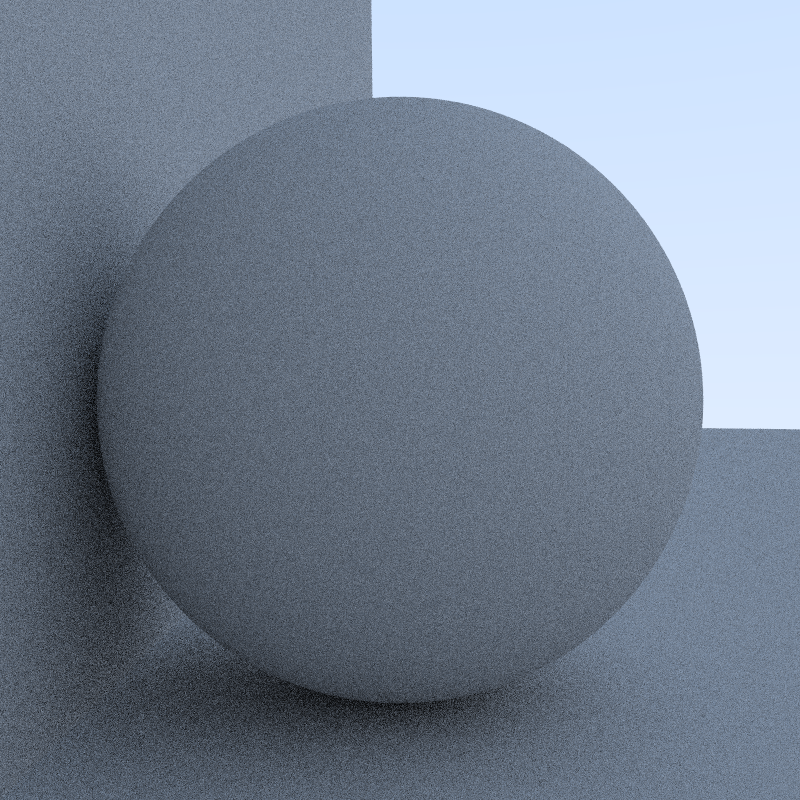
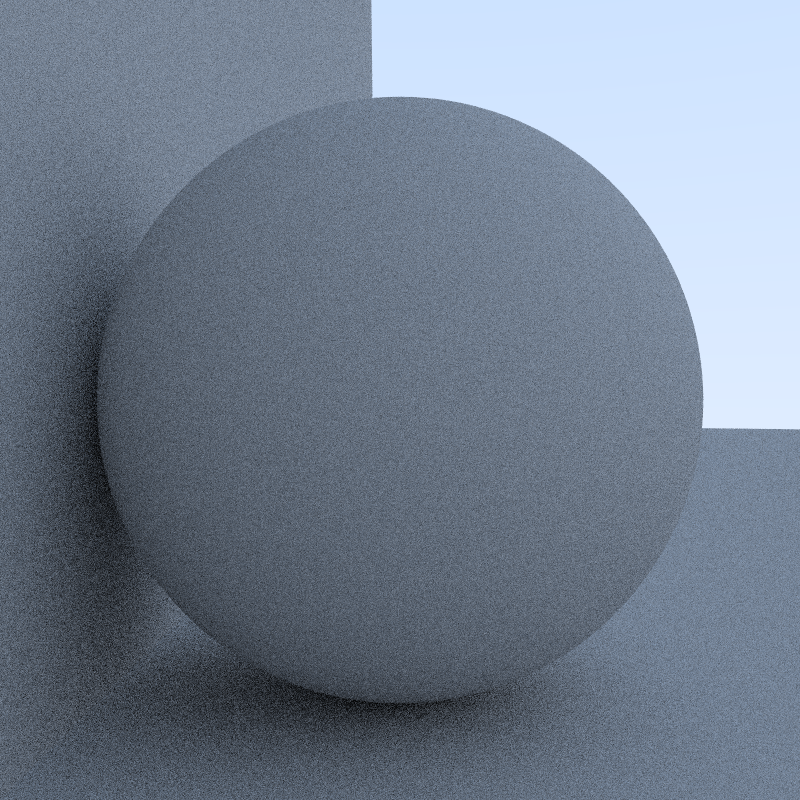
Added Material trait and Lambertian material

diff --git a/src/shapes/sphere.rs b/src/shapes/sphere.rs
@@ -1,19 +1,31 @@
-use crate::{ hittable::{Hit, Hittable}, interval::Interval, ray::Ray, vec3::{Point, Vec3}};
+use std::sync::Arc;
+use crate::{
+    hittable::{Hit, Hittable},
+    interval::Interval,
+    material::Material,
+    ray::Ray,
+    vec3::{Point, Vec3},
+};
 
 #[derive(Debug, Clone)]
 pub struct Sphere {
     center: Point,
     radius: f64,
+    material: Arc<dyn Material>,
 }
 
 impl Sphere {
-    pub fn new(center: Point, radius: f64) -> Self {
-        Self { center, radius }
+    pub fn new(center: Point, radius: f64, material: Arc<dyn Material>) -> Self {
+        Self {
+            center,
+            radius,
+            material,
+        }
     }
 
     fn normal(&self, ray: &Ray, distance: f64) -> Vec3 {
-        let intersept: Point = ray.point_at(distance);
-        let normal = (intersept - self.center) / self.radius;
+        let intercept: Point = ray.point_at(distance);
+        let normal = (intercept - self.center) / self.radius;
         if ray.direction().dot(normal) <= 0.0 {
             normal
         } else {
@@ -37,16 +49,20 @@ impl Hittable for Sphere {
         } else {
             let near = (h - d.sqrt()) / a;
             let far = (h + d.sqrt()) / a;
-            
+
             if ray_t.surrounds(near) {
                 Some(Hit {
                     distance: near,
                     normal: self.normal(ray, near),
+                    hit_point: ray.point_at(near),
+                    material: self.material.clone(),
                 })
             } else if ray_t.surrounds(far) {
                 Some(Hit {
                     distance: far,
                     normal: self.normal(ray, far),
+                    hit_point: ray.point_at(far),
+                    material: self.material.clone(),
                 })
             } else {
                 None

diff --git a/src/camera.rs b/src/camera.rs
@@ -8,7 +8,7 @@ use image::RgbImage;
 use rand::random;
 use rayon::iter::ParallelIterator;
 
-const MAX_DEPTH: i32 = 30;
+const MAX_DEPTH: i32 = 10;
 
 #[derive(Debug, Clone)]
 pub struct Camera {
@@ -105,10 +105,15 @@ fn ray_color(ray: &Ray, ray_t: Interval, scene: &Scene, depth: i32) -> Color {
     let hit = scene.hit(ray, ray_t);
 
     if let Some(hit) = hit {
-        let hit_point = ray.point_at(hit.distance);
-        let direction = hit.normal + Vec3::random_unit_vec();
-        let new_ray = Ray::new(hit_point, direction);
-        0.5 * ray_color(&new_ray, ray_t, scene, depth - 1)
+        // let hit_point = ray.point_at(hit.distance);
+        // let direction = hit.normal + Vec3::random_unit_vec();
+        // let new_ray = Ray::new(hit_point, direction);
+        let scatter = hit.material.scatter(ray, &hit);
+        if let Some(scatter) = scatter {
+            scatter.attenuation * ray_color(&scatter.ray, ray_t, scene, depth - 1)
+        } else {
+            Color::new(0.0, 0.0, 0.0)
+        }
     } else {
         let a = (&ray.direction().z() + 1.0) / 2.0;
         a * Color::new(0.5, 0.7, 1.) + (1. - a) * Color::new(1.0, 1.0, 1.0)

diff --git a/src/main.rs b/src/main.rs
@@ -2,19 +2,17 @@ use std::time::Instant;
 
 use anyhow::Result;
 use raytracer::{
-    camera::Camera,
-    interval::Interval,
-    scene::Scene,
-    shapes::sphere::Sphere,
-    vec3::{Point, Vec3},
+    camera::Camera, interval::Interval, lambertian::Lambertian, scene::Scene, shapes::sphere::Sphere, vec3::{Color, Point, Vec3},
 };
 
 fn main() -> Result<()> {
     let mut scene = Scene::default();
 
-    scene.add_shape(Box::new(Sphere::new(Point::new(3.0, 0.0, 0.0), 1.0)));
-    scene.add_shape(Box::new(Sphere::new(Point::new(1.5, 0.0, -2000.0), 1999.0)));
-    scene.add_shape(Box::new(Sphere::new(Point::new(3.0, 2000.0, 0.0), -1999.0)));
+    let lambertian = Lambertian::new_arc(Color::new(0.5, 0.5, 0.5));
+
+    scene.add_shape(Box::new(Sphere::new(Point::new(3.0, 0.0, 0.0), 1.0, lambertian.clone())));
+    scene.add_shape(Box::new(Sphere::new(Point::new(1.5, 0.0, -2000.0), 1999.0, lambertian.clone())));
+    scene.add_shape(Box::new(Sphere::new(Point::new(3.0, 2000.0, 0.0), -1999.0, lambertian.clone())));
 
     let camera = Camera::new(
         1.0,

diff --git a/src/lambertian.rs b/src/lambertian.rs
@@ -1,0 +1,31 @@
+use std::sync::Arc;
+
+use crate::hittable::Hit;
+use crate::material::{Material, Scatter};
+use crate::ray::Ray;
+use crate::vec3::{Color, Vec3};
+
+#[derive(Debug, Copy, Clone)]
+pub struct Lambertian {
+    albedo: Color,
+}
+
+impl Lambertian {
+    pub fn new_arc(albedo: Color) -> Arc<Self> {
+        Arc::new(Self { albedo })
+    }
+}
+
+impl Material for Lambertian {
+    fn scatter(&self, _ray_in: &Ray, hit: &Hit) -> Option<Scatter> {
+        let mut direction = hit.normal + Vec3::random_unit_vec();
+        if direction.near_zero() {
+            direction = hit.normal
+        }
+        let new_ray = Ray::new(hit.hit_point, direction);
+        Some(Scatter {
+            ray: new_ray,
+            attenuation: self.albedo,
+        })
+    }
+}

diff --git a/src/hittable.rs b/src/hittable.rs
@@ -1,6 +1,7 @@
+use crate::vec3::Point;
+use crate::{interval::Interval, material::Material, ray::Ray, vec3::Vec3};
 use std::fmt::Debug;
-
-use crate::{interval::Interval, ray::Ray, vec3::Vec3};
+use std::sync::Arc;
 
 pub trait Hittable: Send + Sync + Debug {
     fn hit(&self, ray: &Ray, ray_t: Interval) -> Option<Hit>;
@@ -9,4 +10,6 @@ pub trait Hittable: Send + Sync + Debug {
 pub struct Hit {
     pub distance: f64,
     pub normal: Vec3,
+    pub hit_point: Point,
+    pub material: Arc<dyn Material>,
 }

diff --git a/src/vec3.rs b/src/vec3.rs
@@ -100,9 +100,9 @@ impl Vec3 {
         }
     }
 
-    pub fn random_on_hemisphere(normal: Vec3) -> Vec3 {
-        let vec = Self::random_unit_vec();
-        if vec.dot(normal) >= 0.0 { vec } else { -vec }
+    pub fn near_zero(&self) -> bool {
+        const LIMIT: f64 = 1e-8;
+        self.x().abs() < LIMIT && self.y().abs() < LIMIT && self.z().abs() < LIMIT
     }
 }
 

diff --git a/src/material.rs b/src/material.rs
@@ -1,0 +1,12 @@
+use std::fmt::Debug;
+
+use crate::{hittable::Hit, ray::Ray, vec3::Color};
+
+pub trait Material:Send + Sync + Debug {
+    fn scatter(&self, ray_in: &Ray, hit: &Hit) -> Option<Scatter>;
+}
+
+pub struct Scatter {
+    pub ray: Ray,
+    pub attenuation: Color,
+}

diff --git a/src/lib.rs b/src/lib.rs
@@ -5,3 +5,5 @@ pub mod hittable;
 pub mod shapes;
 pub mod interval;
 pub mod scene;
+pub mod material;
+pub mod lambertian;
